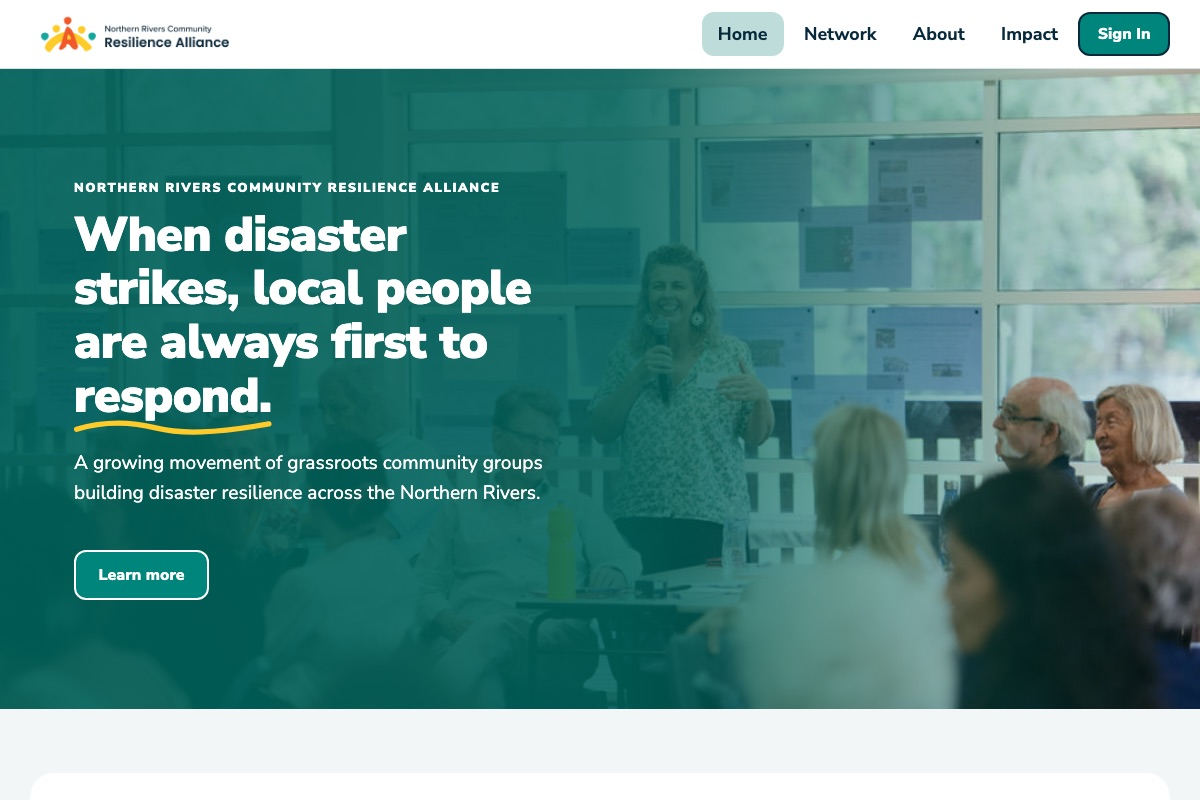
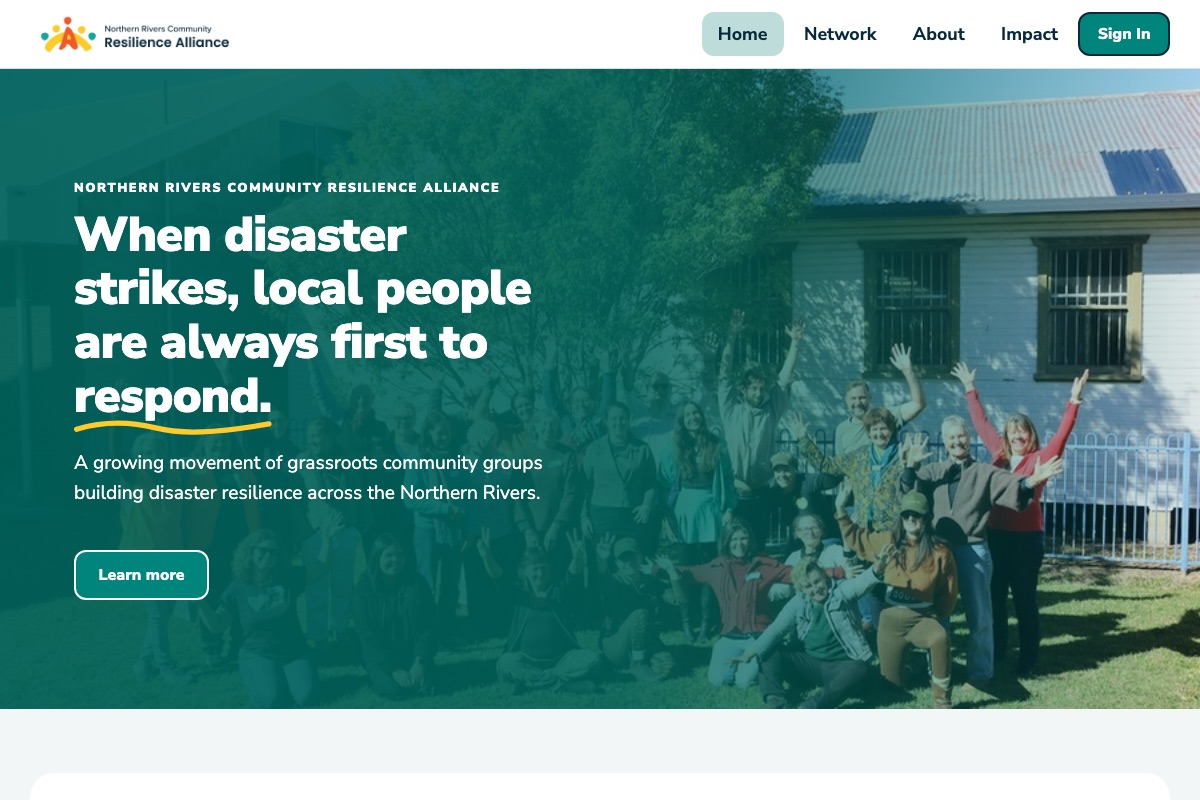
Prototypes A and B: remove the photo beside the achievements; use it as the header background

Changed region(s): [[0.4008, 0.0625, 1.0, 0.9062], [0.37, 0.5938, 0.4008, 0.6562], [0.4008, 0.75, 0.4317, 0.7812]]

diff --git a/prototype-b/index.html b/prototype-b/index.html
@@ -324,13 +324,13 @@ body .lgrid>*,body .team>*{flex-basis:calc(50% - 8px)}
 <nav id="nav" aria-label="Main"><a href="#home" data-nav="home">Home</a><a href="#network" data-nav="network">Network</a><a href="#about" data-nav="about">About</a><a href="#impact" data-nav="impact">Impact</a><a class="btn btn-cta" href="https://rack.nrcra.org.au" target="_blank" rel="noopener">Sign In</a></nav></div></header><main id="main"><section id="home" data-screen data-label="Home" class="page " tabindex="-1" aria-label="Home"><div class="hero1 herobg"><div class="wrap"><div class="h1-panel tpanel"><span class="eyebrow">Northern Rivers Community Resilience Alliance</span>
 <h1>When disaster strikes, local people are always first to <span class="mark">respond.<svg class="squig" viewBox="0 0 300 24" aria-hidden="true"><path d="M4 16c40-12 80-12 120-2s90 8 172-6" fill="none" stroke="#ffcb2a" stroke-width="8" stroke-linecap="round"/></svg></span></h1><p class="lede">A growing movement of grassroots community groups building disaster resilience across the Northern Rivers.</p>
 <p class="btnrow"><a class="btn btn-primary" href="#about">Learn more</a></p></div>
-<div class="h1-photo"><img src="../assets/img/speaker.jpg" alt="" class="" loading="eager" decoding="async"></div></div></div>
+<div class="h1-photo"><img src="../assets/img/group-cheer.jpg" alt="" class="" loading="eager" decoding="async"></div></div></div>
 
 <section class="sec"><div class="wrap"><div class="card wwa surface"><div><span class="eyebrow">Who we are</span><h2><span class="hl">The group made up of groups</span></h2><p>Since early 2024, more than 60 groups and organisations across the Northern Rivers have joined together to form the Resilience Alliance, a community-led network focused on collective care, preparedness and regional strength.</p><h3>We&rsquo;re a network of 7 Local Government Areas (LGA)</h3><ul class="lgapills"><li>Tweed LGA</li><li>Byron LGA</li><li>Ballina LGA</li><li>Lismore LGA</li><li>Kyogle LGA</li><li>Clarence LGA</li><li>Richmond LGA</li></ul>
 <p class="btnrow"><a class="btn btn-ghost" href="#network">Explore our network</a></p></div><div class="wwa-map"><figure class="pmap"><svg viewBox="0 0 380 680" role="img" aria-labelledby="pmt1"><title id="pmt1">Drawn map of the Northern Rivers showing towns hit by the 2022 floods</title>
 <rect class="sea" width="380" height="680"/><polygon class="land" points="0.0,0.0 299.1,0.0 303.2,20.5 315.3,57.3 311.3,110.6 305.6,155.7 307.2,172.0 339.6,213.0 327.4,237.6 322.6,274.5 321.0,307.2 303.2,340.0 274.9,372.8 257.1,405.5 242.6,462.9 228.8,528.4 226.4,540.7 214.3,606.3 190.0,680.0 0.0,680.0"/><polyline class="coast" points="299.1,0.0 303.2,20.5 315.3,57.3 311.3,110.6 305.6,155.7 307.2,172.0 339.6,213.0 327.4,237.6 322.6,274.5 321.0,307.2 303.2,340.0 274.9,372.8 257.1,405.5 242.6,462.9 228.8,528.4 226.4,540.7 214.3,606.3 190.0,680.0"/><polyline class="river" points="216.7,120.4 240.1,84.8 268.4,63.9 303.2,24.6"/><polyline class="river" points="283.0,177.0 306.4,172.0"/><polyline class="river" points="226.4,221.2 193.2,283.1 197.3,356.4"/><polyline class="river" points="82.1,204.8 100.3,305.6 197.3,356.4 219.5,390.0 255.9,365.8 268.0,341.2 321.0,307.2"/><polyline class="river" points="12.1,585.8 53.8,643.1 105.1,606.3 161.7,548.9 227.2,536.6"/><text class="lga" x="161.7" y="41.0">Tweed</text><text class="lga" x="270.9" y="221.2">Byron</text><text class="lga" x="24.3" y="135.2">Kyogle</text><text class="lga" x="137.4" y="237.6">Lismore</text><text class="lga" x="258.7" y="278.6">Ballina</text><text class="lga" x="88.9" y="442.4">Richmond Valley</text><text class="lga" x="24.3" y="573.5">Clarence Valley</text><g class="dot" data-place="Murwillumbah"><title>Murwillumbah, Tweed</title><circle cx="240.1" cy="84.8" r="6"/><text class="lbl" x="231.1" y="88.8" text-anchor="end">Murwillumbah</text></g><g class="dot" data-place="South Murwillumbah"><title>South Murwillumbah, Tweed</title><circle cx="244.6" cy="89.3" r="6"/></g><g class="dot" data-place="Tumbulgum"><title>Tumbulgum, Tweed</title><circle cx="268.4" cy="63.9" r="6"/><text class="lbl" x="277.4" y="67.9" text-anchor="start">Tumbulgum</text></g><g class="dot" data-place="Uki"><title>Uki, Tweed</title><circle cx="216.7" cy="120.4" r="6"/><text class="lbl" x="207.7" y="124.4" text-anchor="end">Uki</text></g><g class="dot" data-place="Mullumbimby"><title>Mullumbimby, Byron</title><circle cx="283.0" cy="177.0" r="6"/><text class="lbl" x="274.0" y="181.0" text-anchor="end">Mullumbimby</text></g><g class="dot" data-place="Billinudgel"><title>Billinudgel, Byron</title><circle cx="294.3" cy="157.3" r="6"/><text class="lbl" x="285.3" y="161.3" text-anchor="end">Billinudgel</text></g><g class="dot" data-place="South Golden Beach"><title>South Golden Beach, Byron</title><circle cx="301.6" cy="154.4" r="6"/></g><g class="dot" data-place="Ballina"><title>Ballina, Ballina</title><circle cx="309.3" cy="305.6" r="6"/><text class="lbl" x="300.3" y="309.6" text-anchor="end">Ballina</text></g><g class="dot" data-place="Wardell"><title>Wardell, Ballina</title><circle cx="268.0" cy="341.2" r="6"/><text class="lbl" x="277.0" y="345.2" text-anchor="start">Wardell</text></g><g class="dot" data-place="Lismore CBD"><title>Lismore CBD, Lismore</title><circle cx="193.2" cy="283.1" r="6"/><text class="lbl" x="202.2" y="287.1" text-anchor="start">Lismore</text></g><g class="dot" data-place="North Lismore"><title>North Lismore, Lismore</title><circle cx="189.2" cy="277.3" r="6"/></g><g class="dot" data-place="South Lismore"><title>South Lismore, Lismore</title><circle cx="186.8" cy="287.6" r="6"/></g><g class="dot" data-place="Casino"><title>Casino, Richmond Valley</title><circle cx="100.3" cy="305.6" r="6"/><text class="lbl" x="91.3" y="309.6" text-anchor="end">Casino</text></g><g class="dot" data-place="Coraki"><title>Coraki, Richmond Valley</title><circle cx="197.3" cy="356.4" r="6"/><text class="lbl" x="206.3" y="360.4" text-anchor="start">Coraki</text></g><g class="dot" data-place="Bungawalbin"><title>Bungawalbin, Richmond Valley</title><circle cx="177.9" cy="378.9" r="6"/><text class="lbl" x="168.9" y="382.9" text-anchor="end">Bungawalbin</text></g><g class="dot" data-place="Woodburn"><title>Woodburn, Richmond Valley</title><circle cx="219.5" cy="390.0" r="6"/><text class="lbl" x="228.5" y="394.0" text-anchor="start">Woodburn</text></g><g class="dot" data-place="Broadwater"><title>Broadwater, Richmond Valley</title><circle cx="255.9" cy="365.8" r="6"/><text class="lbl" x="264.9" y="369.8" text-anchor="start">Broadwater</text></g><g class="dot" data-place="Kyogle"><title>Kyogle, Kyogle</title><circle cx="82.1" cy="204.8" r="6"/><text class="lbl" x="91.1" y="208.8" text-anchor="start">Kyogle</text></g><g class="dot" data-place="Grafton"><title>Grafton, Clarence Valley</title><circle cx="53.8" cy="643.1" r="6"/><text class="lbl" x="62.8" y="647.1" text-anchor="start">Grafton</text></g></svg></figure></div></div></div></section>
 
-<section class="sec" style="padding-top:0"><div class="wrap statrow"><div class="statcard"><span class="eyebrow">What we have achieved</span><dl class="stats"><div><dt>60+</dt><dd>grassroots groups and organisations</dd></div><div><dt>7</dt><dd>local government areas</dd></div><div><dt>3</dt><dd>projects under way</dd></div><div><dt>$800,000</dt><dd>HELP Fund grants program, over two years</dd></div></dl></div><div class="framed"><img src="../assets/img/group-cheer.jpg" alt="Alliance members cheering with raised arms in front of a school building." class="" loading="lazy" decoding="async"></div></div></section>
+<section class="sec" style="padding-top:0"><div class="wrap"><div class="statcard"><span class="eyebrow">What we have achieved</span><dl class="stats"><div><dt>60+</dt><dd>grassroots groups and organisations</dd></div><div><dt>7</dt><dd>local government areas</dd></div><div><dt>3</dt><dd>projects under way</dd></div><div><dt>$800,000</dt><dd>HELP Fund grants program, over two years</dd></div></dl></div></div></section>
 
 <section class="sec" style="padding-top:0" id="focus"><div class="wrap"><span class="eyebrow">In focus</span><h2 class="sechead"><span class="hl">Upcoming, projects and the R.A.C.K</span></h2>
 <ul class="kb"><li><img src="../assets/img/crowd.jpg" alt="People gathered outdoors listening beneath trees at a gathering." class="" loading="lazy" decoding="async"><h3>27 Nov: Alliance Gathering, Phase 1</h3><p>Location to be confirmed.</p></li><li><img src="../assets/img/meeting.jpg" alt="A small team meeting around a table with a screen." class="" loading="lazy" decoding="async"><h3>Projects</h3><p>Connected and Prepared, Resourcing Community Resilience and Learning Together. <a href="#impact">Impact</a></p></li>

diff --git a/prototype-a/index.html b/prototype-a/index.html
@@ -313,14 +313,14 @@ main a:not(.btn):hover{color:var(--navy)}
 <nav id="nav" aria-label="Main"><a href="#home" data-nav="home">Home</a><a href="#network" data-nav="network">Network</a><a href="#about" data-nav="about">About</a><a href="#impact" data-nav="impact">Impact</a><a class="btn btn-cta" href="https://rack.nrcra.org.au" target="_blank" rel="noopener">Sign In</a></nav></div></header><main id="main"><section id="home" data-screen data-label="Home" class="page " tabindex="-1" aria-label="Home"><div class="hero1 herobg"><div class="wrap"><div class="h1-panel"><span class="eyebrow">Northern Rivers Community Resilience Alliance</span>
 <h1>When disaster strikes, local people are always first to respond.</h1><p class="lede">A growing movement of grassroots community groups building disaster resilience across the Northern Rivers.</p>
 <p class="btnrow"><a class="btn btn-primary" href="#about">About us</a></p></div>
-<div class="h1-photo"><img src="../assets/img/speaker.jpg" alt="" class="" loading="eager" decoding="async"></div></div>
+<div class="h1-photo"><img src="../assets/img/group-cheer.jpg" alt="" class="" loading="eager" decoding="async"></div></div>
 <div class="wrap"><div class="latest"><a href="https://www.nrcra.org.au/news"><b>Latest</b>$800,000 HELP Fund grants program announced</a><a href="#home-focus"><b>Upcoming</b>27 Nov: Alliance Gathering, Phase 1</a><a href="#impact"><b>Projects</b>Three projects under way</a></div></div></div>
 
 <section class="sec bk-white"><div class="wrap intro1"><div><span class="eyebrow">Who we are</span><h2>This is about more than disaster.</h2><p>Since early 2024, more than 60 groups and organisations across the Northern Rivers have joined together to form the Resilience Alliance, a community-led network focused on collective care, preparedness and regional strength.</p><p>Neighbours became first responders in 2022. Today, those neighbours are building the systems that will protect communities before the next disaster. The Alliance connects prepared communities to each other, sharing knowledge, reducing duplication and making sure no group is doing it alone.</p></div><figure class="callcard"><div class="cc-ph"><img src="../assets/img/circle.jpg" alt="Members sitting together, smiling, in a bright room." class="" loading="lazy" decoding="async"></div><blockquote>Communities know their people, places and strengths. We connect them.</blockquote><figcaption><span class="tagline"><i class="tg1">Connect.</i> <i class="tg2">Share.</i> <i class="tg3">Care.</i></span></figcaption></figure></div></section>
 
 <section class="sec bk-navy" style="padding-top:0"><div class="wrap"><h2>How we work</h2><ul class="values"><li class="val val-teal"><svg class="ico" viewBox="0 0 48 48" aria-hidden="true" fill="none" stroke="currentColor" stroke-width="3" stroke-linecap="round" stroke-linejoin="round"><circle cx="24" cy="24" r="6"/><circle cx="10" cy="10" r="4"/><circle cx="38" cy="10" r="4"/><circle cx="10" cy="38" r="4"/><circle cx="38" cy="38" r="4"/><path d="M13 13l7 7M35 13l-7 7M13 35l7-7M35 35l-7-7"/></svg><h3>Connect</h3><p>We connect 60+ community resilience groups across the region so local leaders can find each other, share resources and act together.</p></li><li class="val val-yellow"><svg class="ico" viewBox="0 0 48 48" aria-hidden="true" fill="none" stroke="currentColor" stroke-width="3" stroke-linecap="round" stroke-linejoin="round"><circle cx="12" cy="24" r="5"/><circle cx="36" cy="12" r="5"/><circle cx="36" cy="36" r="5"/><path d="M17 22l14-8M17 26l14 8"/></svg><h3>Share</h3><p>We share knowledge, training and practical tools across the network so every community benefits from what others have learned.</p></li><li class="val val-orange"><svg class="ico" viewBox="0 0 48 48" aria-hidden="true" fill="none" stroke="currentColor" stroke-width="3" stroke-linecap="round" stroke-linejoin="round"><path d="M24 40S8 30 8 19a8 8 0 0 1 16-3 8 8 0 0 1 16 3c0 11-16 21-16 21z"/></svg><h3>Care</h3><p>We care for the people doing this work: reducing the load on volunteers, removing duplication and supporting community-led resilience.</p></li></ul></div></section>
 
-<section class="sec bk-teal" style="padding-top:0"><div class="wrap split"><div class="vswap"><img src="../assets/img/group-cheer.jpg" alt="Alliance members cheering with raised arms in front of a school building." class="" loading="lazy" decoding="async"></div><div class="stat-card"><span class="eyebrow">What we have achieved</span><dl class="stats"><div><dt>60+</dt><dd>grassroots groups and organisations</dd></div><div><dt>7</dt><dd>local government areas</dd></div><div><dt>3</dt><dd>projects under way</dd></div><div><dt>$800,000</dt><dd>HELP Fund grants program, over two years</dd></div></dl></div></div></section>
+<section class="sec bk-teal" style="padding-top:0"><div class="wrap"><div class="stat-card"><span class="eyebrow">What we have achieved</span><dl class="stats"><div><dt>60+</dt><dd>grassroots groups and organisations</dd></div><div><dt>7</dt><dd>local government areas</dd></div><div><dt>3</dt><dd>projects under way</dd></div><div><dt>$800,000</dt><dd>HELP Fund grants program, over two years</dd></div></dl></div></div></section>
 
 <section class="sec" style="padding-top:0"><div class="wrap"><span class="eyebrow">Our focus</span><h2>Five pillars</h2><div class="pcwrap"><ol class="pcols"><li class="pc"><span class="pc-ico"><svg class="ico" viewBox="0 0 48 48" aria-hidden="true" fill="none" stroke="currentColor" stroke-width="3" stroke-linecap="round" stroke-linejoin="round"><path d="M24 42V22"/><path d="M24 24c0-8 6-13 14-13 0 8-6 13-14 13z"/><path d="M24 30c0-6-5-10-12-10 0 6 5 10 12 10z"/></svg></span><span class="pc-n" aria-hidden="true">01</span><h3>Grow the Alliance</h3><p>Welcoming more place-based groups so no group works alone.</p></li><li class="pc"><span class="pc-ico"><svg class="ico" viewBox="0 0 48 48" aria-hidden="true" fill="none" stroke="currentColor" stroke-width="3" stroke-linecap="round" stroke-linejoin="round"><path d="M8 12h12a4 4 0 0 1 4 4v24a3 3 0 0 0-3-3H8z"/><path d="M40 12H28a4 4 0 0 0-4 4v24a3 3 0 0 1 3-3h13z"/></svg></span><span class="pc-n" aria-hidden="true">02</span><h3>Training and resource sharing</h3><p>Practical tools, templates and learning passed group to group.</p></li><li class="pc"><span class="pc-ico"><svg class="ico" viewBox="0 0 48 48" aria-hidden="true" fill="none" stroke="currentColor" stroke-width="3" stroke-linecap="round" stroke-linejoin="round"><path d="M24 40S8 30 8 19a8 8 0 0 1 16-3 8 8 0 0 1 16 3c0 11-16 21-16 21z"/></svg></span><span class="pc-n" aria-hidden="true">03</span><h3>Peer support and self care</h3><p>Looking after the people who look after their communities.</p></li><li class="pc"><span class="pc-ico"><svg class="ico" viewBox="0 0 48 48" aria-hidden="true" fill="none" stroke="currentColor" stroke-width="3" stroke-linecap="round" stroke-linejoin="round"><circle cx="24" cy="18" r="9"/><path d="M24 27v13"/><path d="M14 40h20"/></svg></span><span class="pc-n" aria-hidden="true">04</span><h3>Funding and collective projects</h3><p>Participatory grants and shared projects, decided locally.</p></li><li class="pc"><span class="pc-ico"><svg class="ico" viewBox="0 0 48 48" aria-hidden="true" fill="none" stroke="currentColor" stroke-width="3" stroke-linecap="round" stroke-linejoin="round"><path d="M10 20v8h6l14 8V12l-14 8z"/><path d="M36 18a8 8 0 0 1 0 12"/></svg></span><span class="pc-n" aria-hidden="true">05</span><h3>Advocacy</h3><p>A stronger collective voice in funding, policy and planning.</p></li></ol><div class="pc-base" aria-hidden="true"></div></div></div></section>
 

diff --git a/tools/build_teal.py b/tools/build_teal.py
@@ -53,12 +53,12 @@ def home_body():
     return f'''<div class="hero1 herobg"><div class="wrap"><div class="h1-panel tpanel"><span class="eyebrow">Northern Rivers Community Resilience Alliance</span>
 <h1>When disaster strikes, local people are always first to <span class="mark">respond.{B.SQUIGGLE}</span></h1><p class="lede">{B.H1}.</p>
 <p class="btnrow"><a class="btn btn-primary" href="#about">Learn more</a></p></div>
-<div class="h1-photo">{img("speaker", eager=True, alt="")}</div></div></div>
+<div class="h1-photo">{img("cheer", eager=True, alt="")}</div></div></div>
 
 <section class="sec"><div class="wrap"><div class="card wwa surface"><div><span class="eyebrow">Who we are</span><h2>{hl("The group made up of groups")}</h2><p>{B.WHO}</p><h3>We&rsquo;re a network of 7 Local Government Areas (LGA)</h3><ul class="lgapills">{lgas}</ul>
 <p class="btnrow"><a class="btn btn-ghost" href="#network">Explore our network</a></p></div><div class="wwa-map">{B.places_map()}</div></div></div></section>
 
-<section class="sec" style="padding-top:0"><div class="wrap statrow"><div class="statcard"><span class="eyebrow">What we have achieved</span>{B.stats()}</div><div class="framed">{img("cheer")}</div></div></section>
+<section class="sec" style="padding-top:0"><div class="wrap"><div class="statcard"><span class="eyebrow">What we have achieved</span>{B.stats()}</div></div></section>
 
 <section class="sec" style="padding-top:0" id="focus"><div class="wrap"><span class="eyebrow">In focus</span><h2 class="sechead">{hl("Upcoming, projects and the R.A.C.K")}</h2>
 <ul class="kb"><li>{img("crowd")}<h3>{B.GATHER[0]}: {B.GATHER[1]}</h3><p>{B.GATHER[2]}.</p></li><li>{img("meeting")}<h3>Projects</h3><p>Connected and Prepared, Resourcing Community Resilience and Learning Together. <a href="#impact">Impact</a></p></li>
